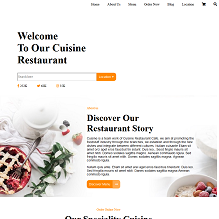
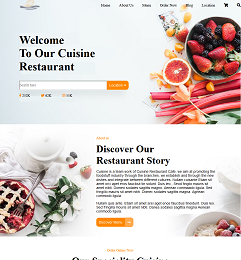
Updated screenshots in portfolio

diff --git a/index.html b/index.html
@@ -126,26 +126,33 @@
 								</div>
 								<ul class="features">
 									<li>
-										<a href="https://divi4.github.io/temperature-converter/">
-										<h3>Temperature Conversion App</h3>
-										<span class="image"><img src="images/temperature-converter-screenshot.png" alt="Screenshot of Temperature Converter site" /></span>
+										<a href="https://divi4.github.io/demo-restaurant/">
+										<h3>Demo Restaurant Site</h3>
+										<span class="image"><img src="images/demo-restaurant-screenshot.jpg" alt="Screenshot of Demo Restaurant site" /></span>
 										</a>
-										<p>A Fahrenheit to Celsius converter including a corresponding animated thermometer</p>
+										<p>A example of a website developed and designed for a restaurant</p>
 									</li>
 									<li>
 										<a href="https://divi4.github.io/cuisine-restaurant/">
 										<h3>Cuisine Restaurant Site</h3>
 										<span class="image"><img src="images/cuisine-restaurant-screenshot.png" alt="Screenshot of Cuisine Restaurant site" /></span>
 										</a>
-										<p>A example of a website developed and designed for a restaurant</p>
+										<p>Another example of a website developed and designed for a restaurant</p>
 									</li>
 									<li>
+										<a href="https://divi4.github.io/temperature-converter/">
+										<h3>Temperature Conversion App</h3>
+										<span class="image"><img src="images/temperature-converter-screenshot.png" alt="Screenshot of Temperature Converter site" /></span>
+										</a>
+										<p>A Fahrenheit to Celsius converter including a corresponding animated thermometer</p>
+									</li>
+									<!-- <li>
 										<a href="https://divi4.github.io/source/">
 										<h3>Mobile-first Source Site</h3>
 										<span class="image"><img src="images/source-screenshot.png" alt="Screenshot of Source site" /></span>
 										</a>
 										<p>A example of a mobile-first developed responsive website</p>
-									</li>
+									</li> -->
 								</ul>
 								<footer class="major">
 									<ul class="actions special">
@@ -270,7 +277,7 @@
 							</ul>
 						</section>
 						<p class="copyright">*Only valid for websites developed by the supplier, David Martin, and is limited to one (1) hour per a calendar month</p><!--
-						--><p class="copyright">&copy; David Martin. Design: <a href="https://html5up.net">HTML5 UP</a>.</p>
+						--><p class="copyright">&copy; David Martin.</p>
 					</footer>
 
 			</div>
